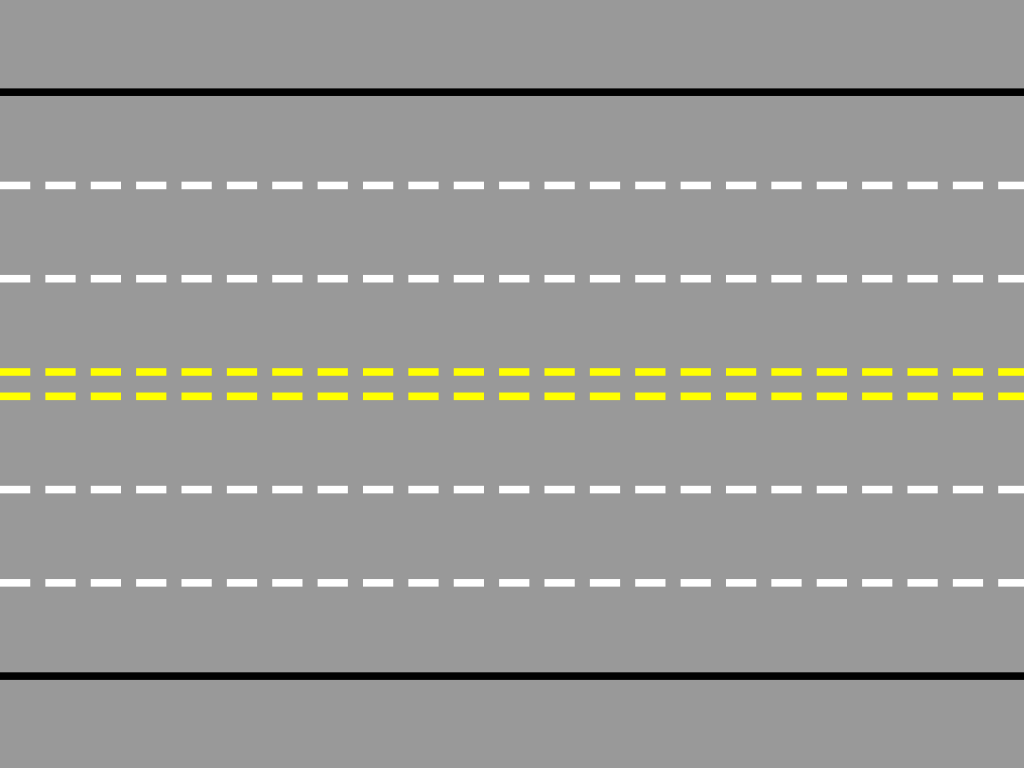
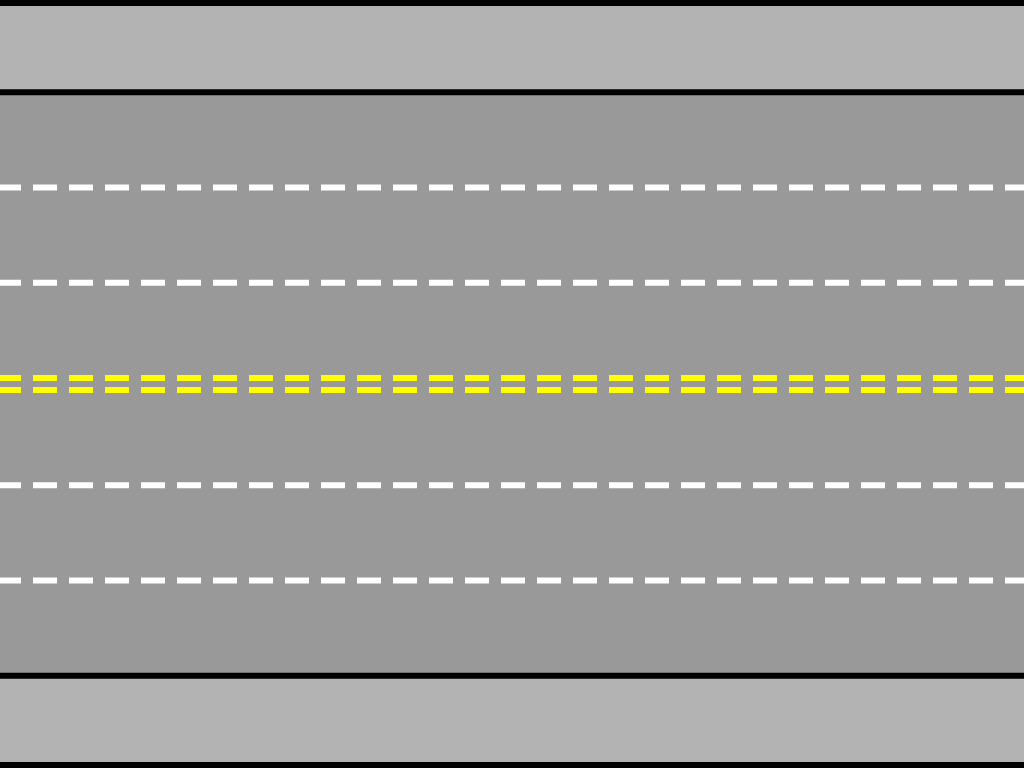
changed graphics and positioning on freeway

diff --git a/freeway/sketch.js b/freeway/sketch.js
@@ -23,7 +23,7 @@ function setup() {
   textSize(height*.05);
   fill(color(255,192,0));
   
-  lanes = [18,30,42,58,70,82];
+  lanes = [18,31,43,57,69,82];
   speeds = [7.1,9.9,14.3,10.7,7.5,6.3];
   dirs = [-1,-1,-1,1,1,1];
   distance = [0,0,0,0,0,0];
@@ -33,7 +33,7 @@ function setup() {
   xScore=[width * .3, width * .7];
   yScore=[height * .04, height * .04];
 
-  carHeight = height * .08;
+  carHeight = height * .085;
   carWidth = carHeight * 1.33;
   
   playerHeight = height * .06;

diff --git a/freeway/player_functions.js b/freeway/player_functions.js
@@ -47,7 +47,7 @@ function collidePlayer(id,x,y,x2,y2) {
 
 function resetPlayer(id) {
   up[id] = false;
-  yPlayer[id] = .92*height;
+  yPlayer[id] = .91*height;
 }
 
 function updateScore (id,value) {

diff --git a/index_pt.md b/index_pt.md
@@ -1,0 +1,11 @@
+## [Pong](./pong/)
+
+Inspirado no clássico da Atari. Controle sua raquete com "w" e "s". Pressione "p" para alternar o modo multiplayer e resetar o jogo. O segundo jogador controloa a raquete com "i" e "k".
+
+## [Freeway](./freeway)
+
+Inspirado no jogo Freeway para Atari 2600. Jogador 1 move com "w" e "s", e o jogador 2 com "i" e "k". 
+
+## [Angle test](./angle-test)
+
+Nothing special. Just testing how to work with angles.

diff --git a/index.md b/index.md
@@ -4,7 +4,7 @@ Inspired by the classic Atari arcade game. Control your paddle with "w" and "s".
 
 ## [Freeway](./freeway)
 
-Inpired by Freeway for the Atari 2600. Player 1 controls with "w" and "s", player 2 with "i" and "k".
+Inspired by Freeway for the Atari 2600. Player 1 controls with "w" and "s", player 2 with "i" and "k".
 
 ## [Angle test](./angle-test)
 
